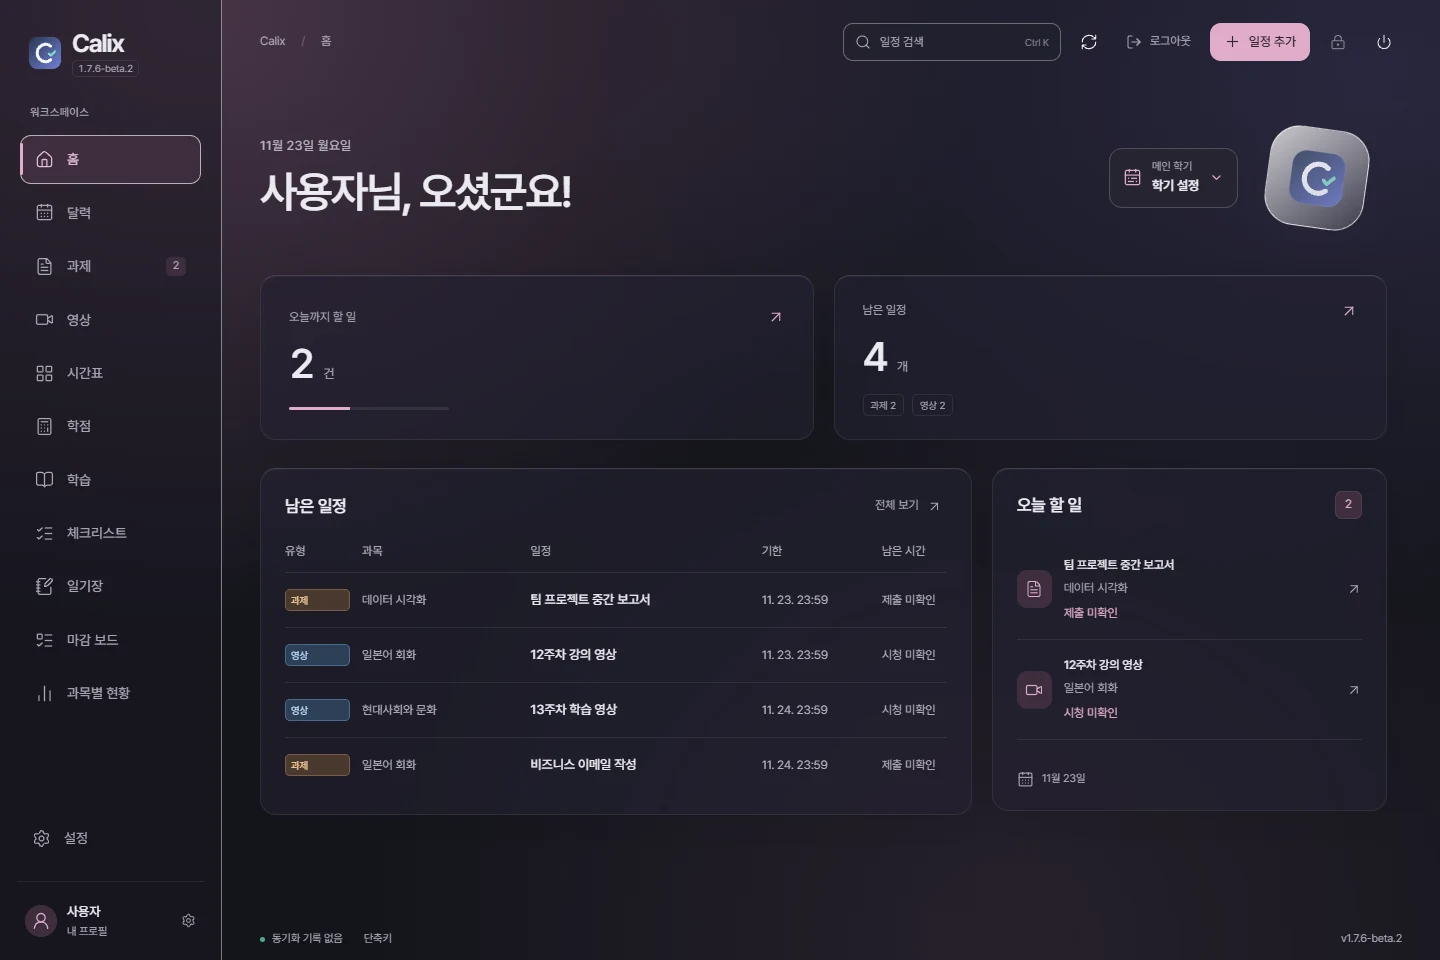
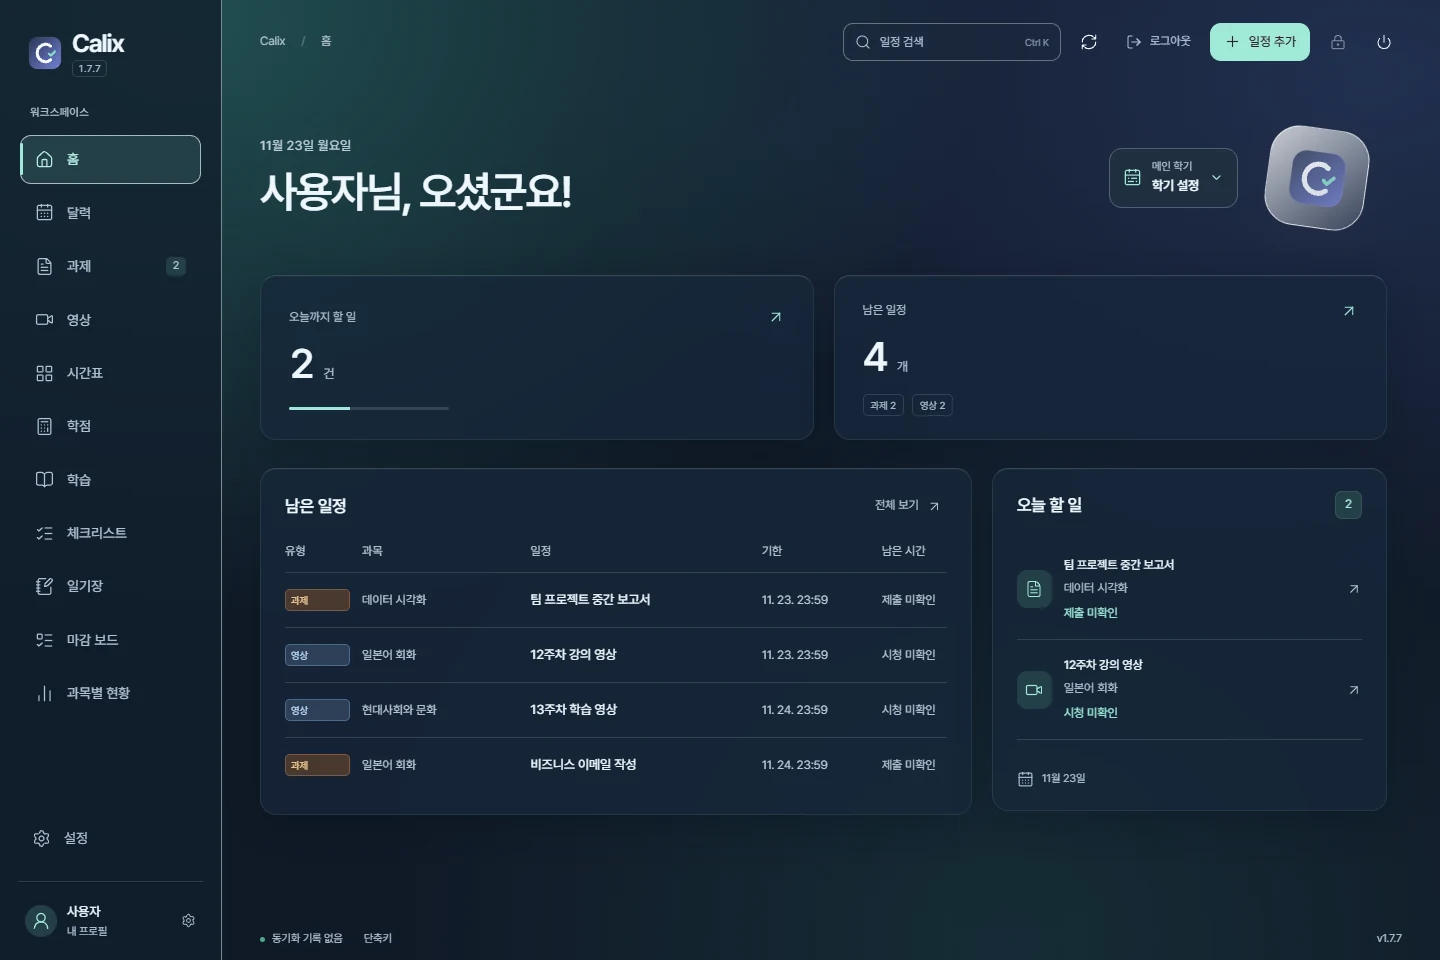
Update Calix site and guide for 1.7.7

diff --git a/calix/aurora/index.html b/calix/aurora/index.html
@@ -9,8 +9,8 @@
   <meta property="og:image" content="https://luttechan.github.io/calix/assets/aurora-home.webp">
   <link rel="canonical" href="https://luttechan.github.io/calix/aurora/">
   <link rel="icon" href="../assets/calix.svg" type="image/svg+xml">
-  <link rel="stylesheet" href="../editions.css">
-  <script src="aurora.js" defer></script>
+  <link rel="stylesheet" href="../editions.css?v=177">
+  <script src="aurora.js?v=177" defer></script>
   <title>Calix Aurora | Windows</title>
 </head>
 <body class="aurora-page">
@@ -31,10 +31,10 @@
       <div class="frame hero-content">
         <h1 id="aurora-title">Calix <span>Aurora</span></h1>
         <p>부산외대 Canvas 일정 관리</p>
-        <a class="button" href="https://github.com/luttechan/Calix/releases/download/v1.7.6/Calix-1.7.6-Setup-x64.exe">Windows 다운로드</a>
-        <small>Windows 10 / 11, x64</small>
+        <a class="button" href="https://github.com/luttechan/Calix/releases/download/v1.7.7/Calix-1.7.7-Setup-x64.exe">Windows 다운로드</a>
+        <small>Windows 10 / 11, x64, 1.7.7</small>
         <div class="hero-screen">
-          <img src="../assets/aurora-home.webp" width="1440" height="960" alt="Calix Aurora 홈에 표시된 오늘의 과제와 영상 일정" fetchpriority="high" decoding="async">
+          <img src="../assets/aurora-home.webp?v=177" width="1440" height="960" alt="Calix Aurora 홈에 표시된 오늘의 과제와 영상 일정" fetchpriority="high" decoding="async">
         </div>
       </div>
     </section>
@@ -58,19 +58,32 @@
       <section class="theme-panel" id="themes" aria-labelledby="theme-title">
         <div class="theme-header">
           <h2 id="theme-title">테마</h2>
-          <div class="theme-picker" role="group" aria-label="테마 미리보기">
-            <button type="button" data-theme="dark" style="--swatch:#333242" aria-pressed="true" title="다크" aria-label="다크"></button>
-            <button type="button" data-theme="pink" style="--swatch:#d09bb7" aria-pressed="false" title="핑크" aria-label="핑크"></button>
-            <button type="button" data-theme="sky" style="--swatch:#9bb8db" aria-pressed="false" title="스카이블루" aria-label="스카이블루"></button>
-            <button type="button" data-theme="mint" style="--swatch:#9bcdb9" aria-pressed="false" title="민트" aria-label="민트"></button>
-            <button type="button" data-theme="purple" style="--swatch:#b7a0d4" aria-pressed="false" title="퍼플" aria-label="퍼플"></button>
-            <button type="button" data-theme="peach" style="--swatch:#deaa92" aria-pressed="false" title="피치" aria-label="피치"></button>
-            <button type="button" data-theme="amber" style="--swatch:#d7b16a" aria-pressed="false" title="앰버" aria-label="앰버"></button>
-            <button type="button" data-theme="olive" style="--swatch:#a7b580" aria-pressed="false" title="올리브" aria-label="올리브"></button>
-            <button type="button" data-theme="lavender" style="--swatch:#aaa7dc" aria-pressed="false" title="라벤더" aria-label="라벤더"></button>
+          <div class="theme-groups">
+            <div class="theme-group">
+              <p id="theme-aurora-family">Aurora</p>
+              <div class="theme-picker" role="group" aria-labelledby="theme-aurora-family">
+                <button type="button" data-image="aurora-home.webp" style="--swatch:linear-gradient(150deg,#79dbca,#182e4a)" aria-pressed="true" title="오로라" aria-label="오로라"></button>
+                <button type="button" data-image="aurora-dawn-177.webp" style="--swatch:linear-gradient(150deg,#c0e5f0,#aaa2dc)" aria-pressed="false" title="새벽" aria-label="새벽"></button>
+                <button type="button" data-image="aurora-dusk-177.webp" style="--swatch:linear-gradient(150deg,#c2a3f0,#432f6c)" aria-pressed="false" title="황혼" aria-label="황혼"></button>
+              </div>
+            </div>
+            <div class="theme-group">
+              <p id="theme-legacy-family">Pre-Aurora</p>
+              <div class="theme-picker" role="group" aria-labelledby="theme-legacy-family">
+                <button type="button" data-theme="pink" style="--swatch:#d09bb7" aria-pressed="false" title="핑크" aria-label="핑크"></button>
+                <button type="button" data-theme="sky" style="--swatch:#9bb8db" aria-pressed="false" title="스카이블루" aria-label="스카이블루"></button>
+                <button type="button" data-theme="mint" style="--swatch:#9bcdb9" aria-pressed="false" title="민트" aria-label="민트"></button>
+                <button type="button" data-theme="purple" style="--swatch:#b7a0d4" aria-pressed="false" title="퍼플" aria-label="퍼플"></button>
+                <button type="button" data-theme="dark" style="--swatch:#333242" aria-pressed="false" title="다크" aria-label="다크"></button>
+                <button type="button" data-theme="peach" style="--swatch:#deaa92" aria-pressed="false" title="피치" aria-label="피치"></button>
+                <button type="button" data-theme="amber" style="--swatch:#d7b16a" aria-pressed="false" title="앰버" aria-label="앰버"></button>
+                <button type="button" data-theme="olive" style="--swatch:#a7b580" aria-pressed="false" title="올리브" aria-label="올리브"></button>
+                <button type="button" data-theme="lavender" style="--swatch:#aaa7dc" aria-pressed="false" title="라벤더" aria-label="라벤더"></button>
+              </div>
+            </div>
           </div>
         </div>
-        <div class="theme-screen"><img id="theme-preview" src="../assets/aurora-home.webp" width="1440" height="960" alt="Calix 다크 테마" loading="lazy" decoding="async"></div>
+        <div class="theme-screen"><img id="theme-preview" src="../assets/aurora-home.webp?v=177" width="1440" height="960" alt="Calix 오로라 테마" loading="lazy" decoding="async"></div>
       </section>
     </div>
   </main>
@@ -78,6 +91,7 @@
     <span>© 2026 Lutté Laurent</span>
     <nav aria-label="보조 메뉴">
       <a href="../guide/">사용 설명서</a>
+      <a href="../guide/#vesper-pairing">Vesper 기기 연동</a>
       <a href="https://github.com/luttechan/Calix/releases">업데이트 내역</a>
       <a href="https://docs.google.com/forms/d/e/1FAIpQLSc_MACToW3j1CXTej0ujlthPVBdn106eAdC3CATeXxXWrQ6Qg/viewform">버그 제보</a>
     </nav>

diff --git a/calix/guide/index.html b/calix/guide/index.html
@@ -4,7 +4,7 @@
   <meta charset="utf-8">
   <meta name="viewport" content="width=device-width, initial-scale=1">
   <meta name="theme-color" content="#17131a">
-  <meta name="description" content="Calix 1.7.6 설치, Canvas 동기화, 시간표, Anki, 출결, 학점 사용 방법.">
+  <meta name="description" content="Calix 1.7.7 설치, Canvas 동기화, 일정 관리, Vesper 준비용 QR 사용 방법.">
   <link rel="canonical" href="https://luttechan.github.io/calix/guide/">
   <link rel="icon" href="../assets/calix.svg" type="image/svg+xml">
   <link rel="stylesheet" href="../calix.css?v=20261121">
@@ -21,7 +21,7 @@
   </header>
   <main id="main" class="wrap">
     <div class="guide-hero">
-      <p class="eyebrow">Windows 1.7.6</p>
+      <p class="eyebrow">Windows 1.7.7</p>
       <h1>사용 설명서</h1>
       <p>설치, Canvas 동기화, 일정 관리</p>
     </div>
@@ -37,13 +37,14 @@
         <a href="#grades">학점 계산과 학습</a>
         <a href="#reminders">알림과 소리</a>
         <a href="#privacy">비밀번호와 잠금</a>
+        <a href="#vesper-pairing">Vesper 기기 연동</a>
         <a href="#management">백업과 업데이트</a>
       </nav>
       <div class="chapters">
         <section id="setup">
           <h2>설치</h2>
           <ol>
-            <li><a href="https://github.com/luttechan/Calix/releases/download/v1.7.6/Calix-1.7.6-Setup-x64.exe">Windows 설치 파일</a>을 실행합니다.</li>
+            <li><a href="https://github.com/luttechan/Calix/releases/download/v1.7.7/Calix-1.7.7-Setup-x64.exe">Windows 설치 파일</a>을 실행합니다.</li>
             <li>이전 버전이 있으면 설치 화면에서 데이터 유지, 새로 설치, 이전 버전 보관 중 하나를 선택합니다.</li>
             <li>첫 실행에서 닉네임과 테마를 지정합니다.</li>
           </ol>
@@ -187,8 +188,28 @@
             <h3>프로필</h3>
             <p>프로필 설정에서 사진과 닉네임, 홈 문구를 바꿉니다. 홈 문구의 <code>{닉네임}</code>은 실제 닉네임으로 표시됩니다.</p>
             <p><strong>설정 → 언어</strong>에서 한국어, English, 日本語를 선택합니다.</p>
+            <p><strong>설정 → 화면</strong>에서 Aurora 테마 3종과 Pre-Aurora 테마를 고릅니다.</p>
             <p>화면 전환 효과는 <strong>설정 → 화면 → 모션 줄이기</strong>에서 줄일 수 있습니다.</p>
           </div>
+        </section>
+
+        <section id="vesper-pairing">
+          <h2>Vesper 기기 연동</h2>
+          <figure class="guide-figure">
+            <div class="screen">
+              <img src="assets/vesper-pairing-177.webp" alt="설정에서 1은 기기 연동 탭, 2는 QR 생성 버튼." width="1218" height="475" loading="lazy">
+              <svg viewBox="0 0 1218 475" aria-hidden="true">
+                <defs><marker id="arrow-vesper" viewBox="0 0 10 10" refX="9" refY="5" markerWidth="5" markerHeight="5" orient="auto"><path d="M0 0 10 5 0 10Z"/></marker></defs>
+                <path d="M638 148l-34 14" marker-end="url(#arrow-vesper)"/><circle cx="656" cy="139" r="21"/><text x="656" y="139">1</text>
+                <path d="M244 424l-40 26" marker-end="url(#arrow-vesper)"/><circle cx="260" cy="409" r="21"/><text x="260" y="409">2</text>
+              </svg>
+            </div>
+          </figure>
+          <ol>
+            <li><strong>설정 → 기기 연동</strong>을 엽니다.</li>
+            <li><strong>QR 생성</strong>으로 준비용 코드를 표시합니다. QR은 5분 후 닫힙니다.</li>
+          </ol>
+          <p>Vesper의 기기 등록과 데이터 동기화는 준비 중입니다.</p>
         </section>
 
         <section id="management">

diff --git a/calix/index.html b/calix/index.html
@@ -9,7 +9,7 @@
   <meta property="og:image" content="https://luttechan.github.io/calix/assets/aurora-home.webp">
   <link rel="canonical" href="https://luttechan.github.io/calix/">
   <link rel="icon" href="assets/calix.svg" type="image/svg+xml">
-  <link rel="stylesheet" href="editions.css">
+  <link rel="stylesheet" href="editions.css?v=177">
   <title>Calix</title>
 </head>
 <body class="edition-index">
@@ -31,7 +31,7 @@
           <p id="aurora-platform">Windows</p>
           <h2 id="aurora-name">Calix <span>Aurora</span></h2>
         </div>
-        <div class="edition-art" aria-hidden="true"><img src="assets/aurora-home.webp" width="1440" height="960" decoding="async" alt=""></div>
+        <div class="edition-art" aria-hidden="true"><img src="assets/aurora-home.webp?v=177" width="1440" height="960" decoding="async" alt=""></div>
       </a>
       <a class="edition-card edition-card--vesper" href="vesper/" aria-labelledby="vesper-name vesper-platform">
         <div class="edition-copy">

diff --git a/calix/editions.css b/calix/editions.css
@@ -110,6 +110,9 @@ button { font: inherit; }
 .feature-screen, .theme-screen { padding: 0 clamp(.7rem, 2vw, 1.35rem) clamp(.7rem, 2vw, 1.35rem); }
 .feature-screen img, .theme-screen img { inline-size: 100%; block-size: auto; border: 1px solid var(--line); border-radius: .7rem; }
 .feature-screen img { aspect-ratio: 1.6; object-fit: cover; object-position: top; }
+.theme-groups { display: flex; flex-wrap: wrap; align-items: flex-start; gap: .75rem 1.4rem; }
+.theme-group { min-width: 0; }
+.theme-group > p { margin: 0 0 .42rem; color: var(--dim); font-size: .9rem; font-weight: 600; }
 .theme-picker { display: flex; flex-wrap: wrap; gap: .45rem; }
 .theme-picker button { cursor: pointer; inline-size: 2rem; block-size: 2rem; padding: 0; border-radius: 50%; border: 2px solid transparent; background: var(--swatch); box-shadow: inset 0 0 0 2px #101a28; }
 .theme-picker button[aria-pressed="true"] { border-color: #f1fbff; }

diff --git a/calix/aurora/aurora.js b/calix/aurora/aurora.js
@@ -6,8 +6,8 @@ for (const swatch of swatches) {
   swatch.addEventListener("click", async () => {
     const request = ++selection;
     const image = new Image();
-    const theme = swatch.dataset.theme;
-    image.src = theme === "dark" ? "../assets/aurora-home.webp" : `../assets/home-${theme}-173.webp`;
+    const file = swatch.dataset.image ?? `home-${swatch.dataset.theme}-173.webp`;
+    image.src = `../assets/${file}?v=177`;
     try {
       await image.decode();
     } catch {

diff --git a/calix/vesper/index.html b/calix/vesper/index.html
@@ -36,6 +36,6 @@
       <figcaption>개발 중인 화면</figcaption>
     </figure>
   </main>
-  <footer><span>Lutein Studio</span><a href="../guide/">Calix 사용 설명서</a></footer>
+  <footer><span>Lutein Studio</span><a href="../guide/#vesper-pairing">기기 연동 안내</a></footer>
 </body>
 </html>
